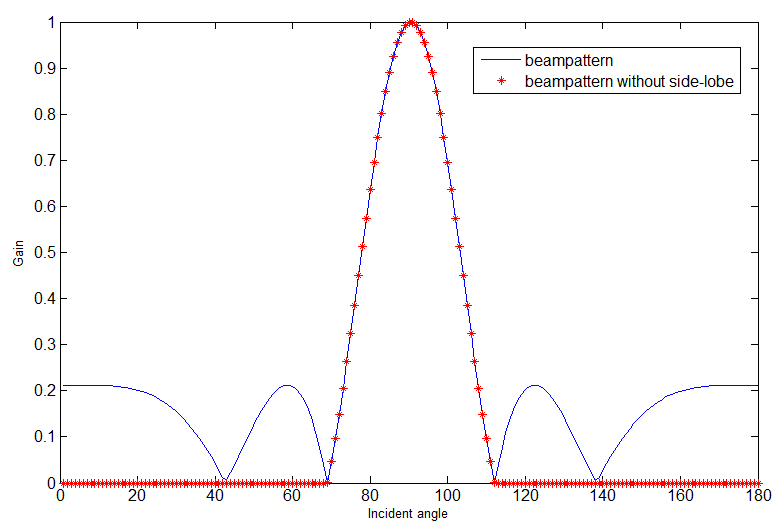
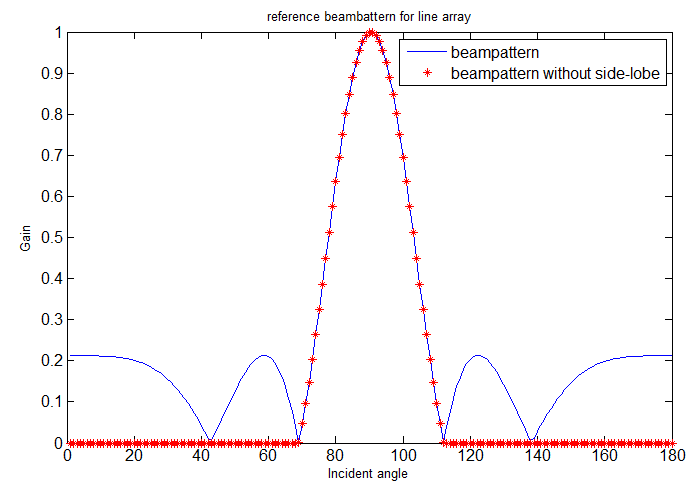
readme figure link corrected.

diff --git a/example4_1D_broadside.m b/example4_1D_broadside.m
@@ -47,6 +47,7 @@ ylabel('Gain');
 xlabel('Incident angle');
 set(gcf,'color','w');
 legend('beampattern','beampattern without side-lobe');
+title('reference beambattern for line array')
 set(gca,'FontSize', 12);
 BP = BP_ML;
 %%

diff --git a/example5_1D_endfire.m b/example5_1D_endfire.m
@@ -40,8 +40,9 @@ figure();
 plot(abs(BP));
 ylabel('Gain');
 xlabel('Incident angle');
+title('reference beambattern for line array')
 set(gcf,'color','w');
-
+%%
 
 FI = zeros(Nphi,Nf);
 figure()
